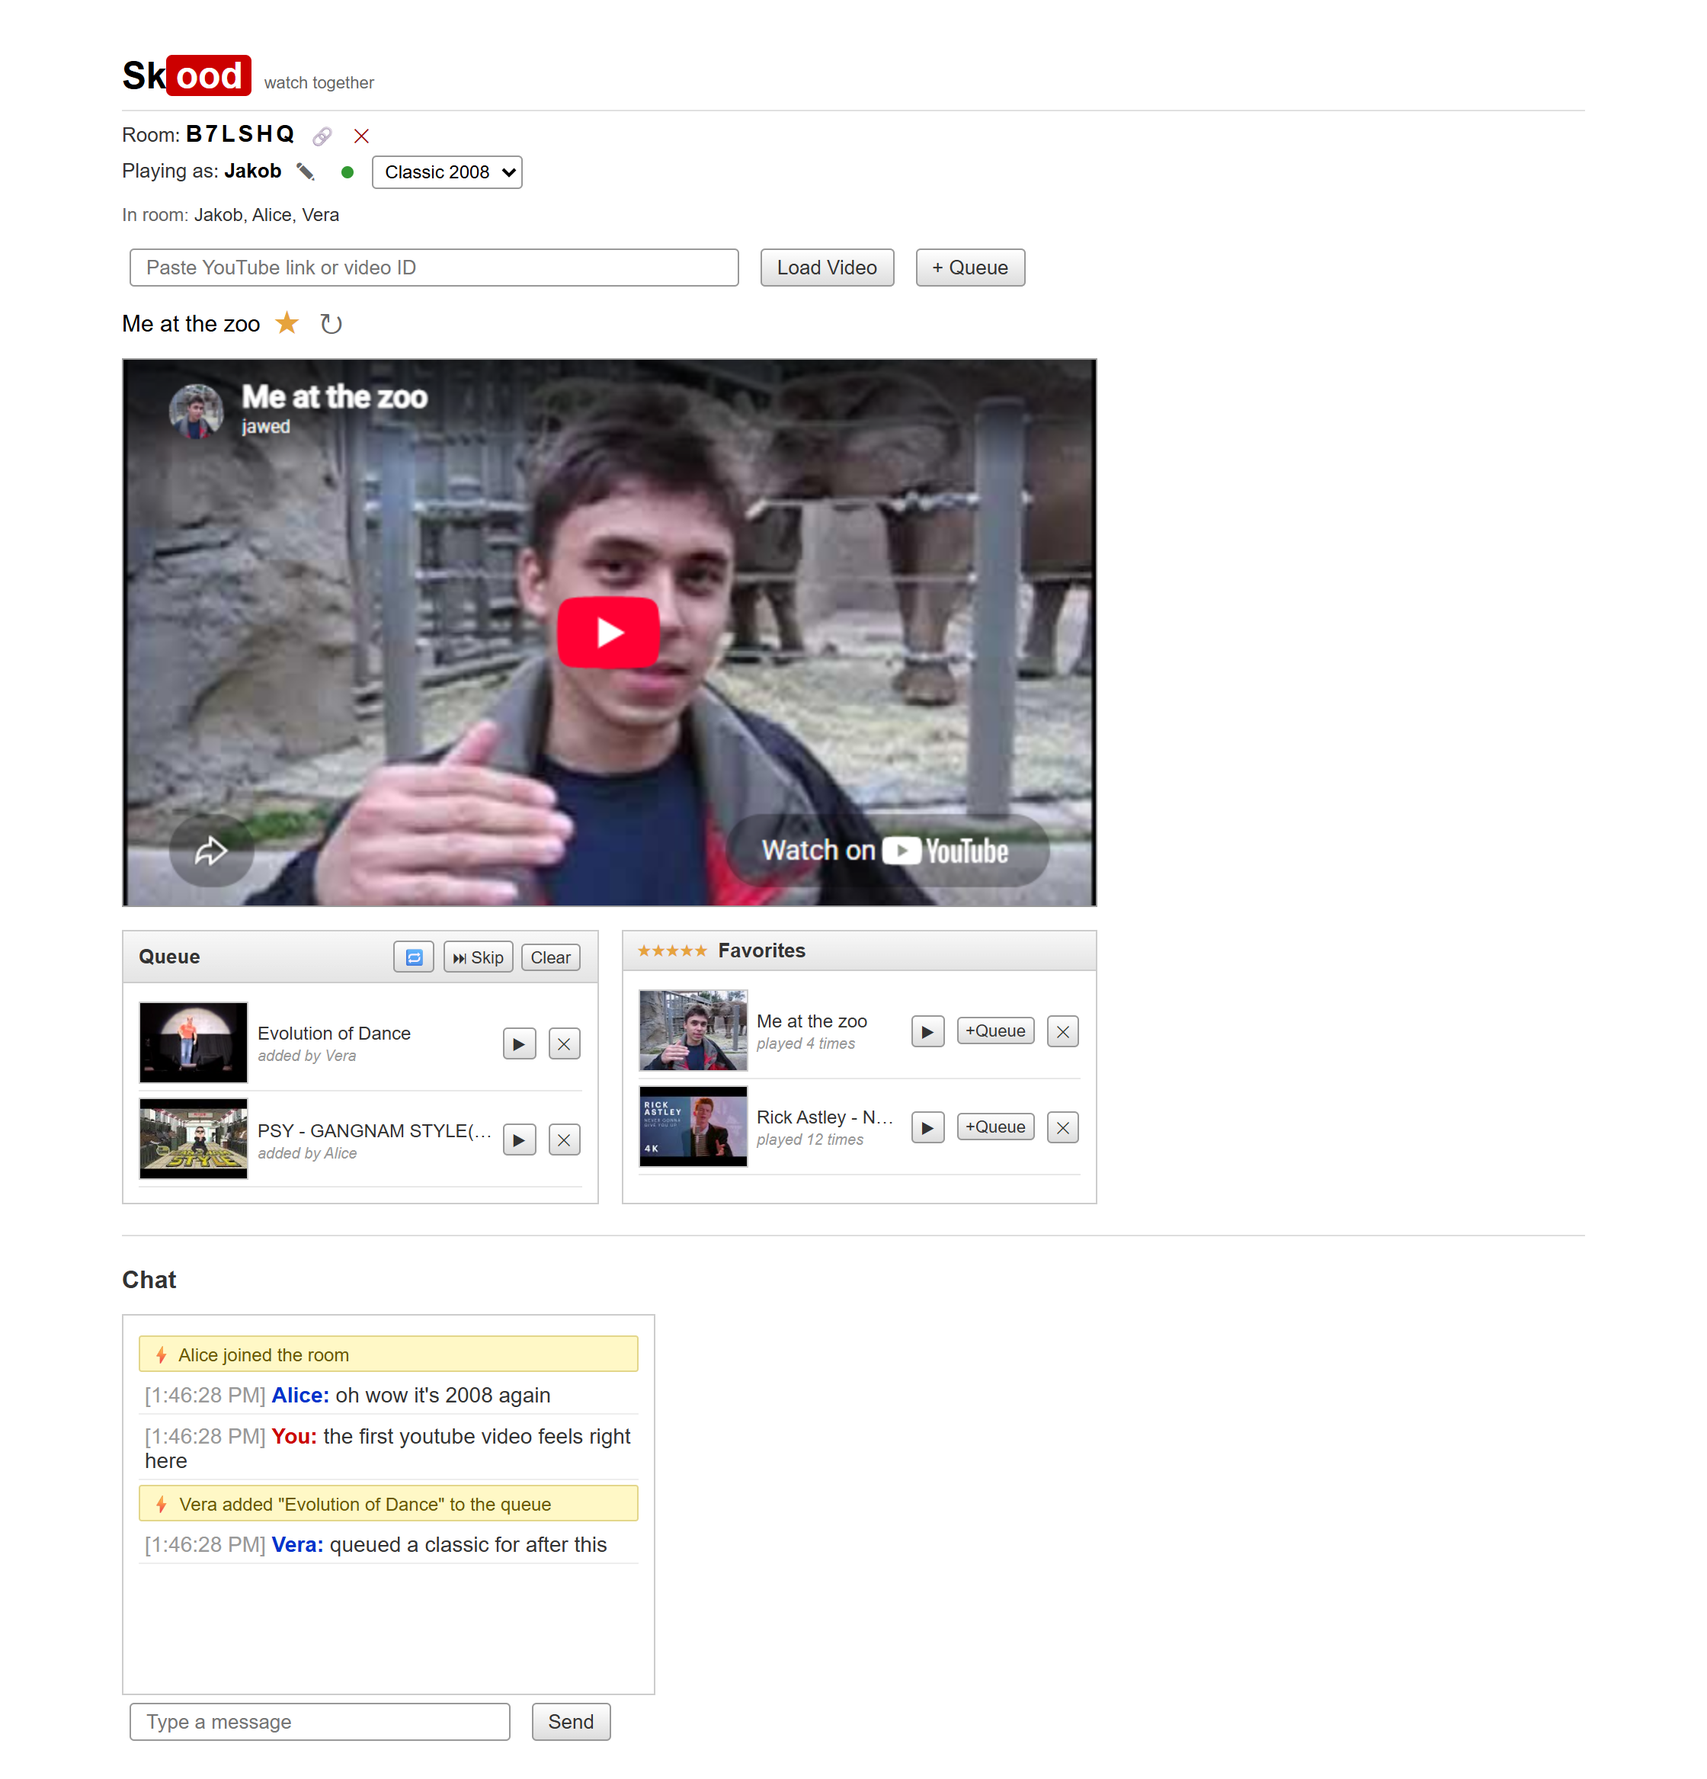
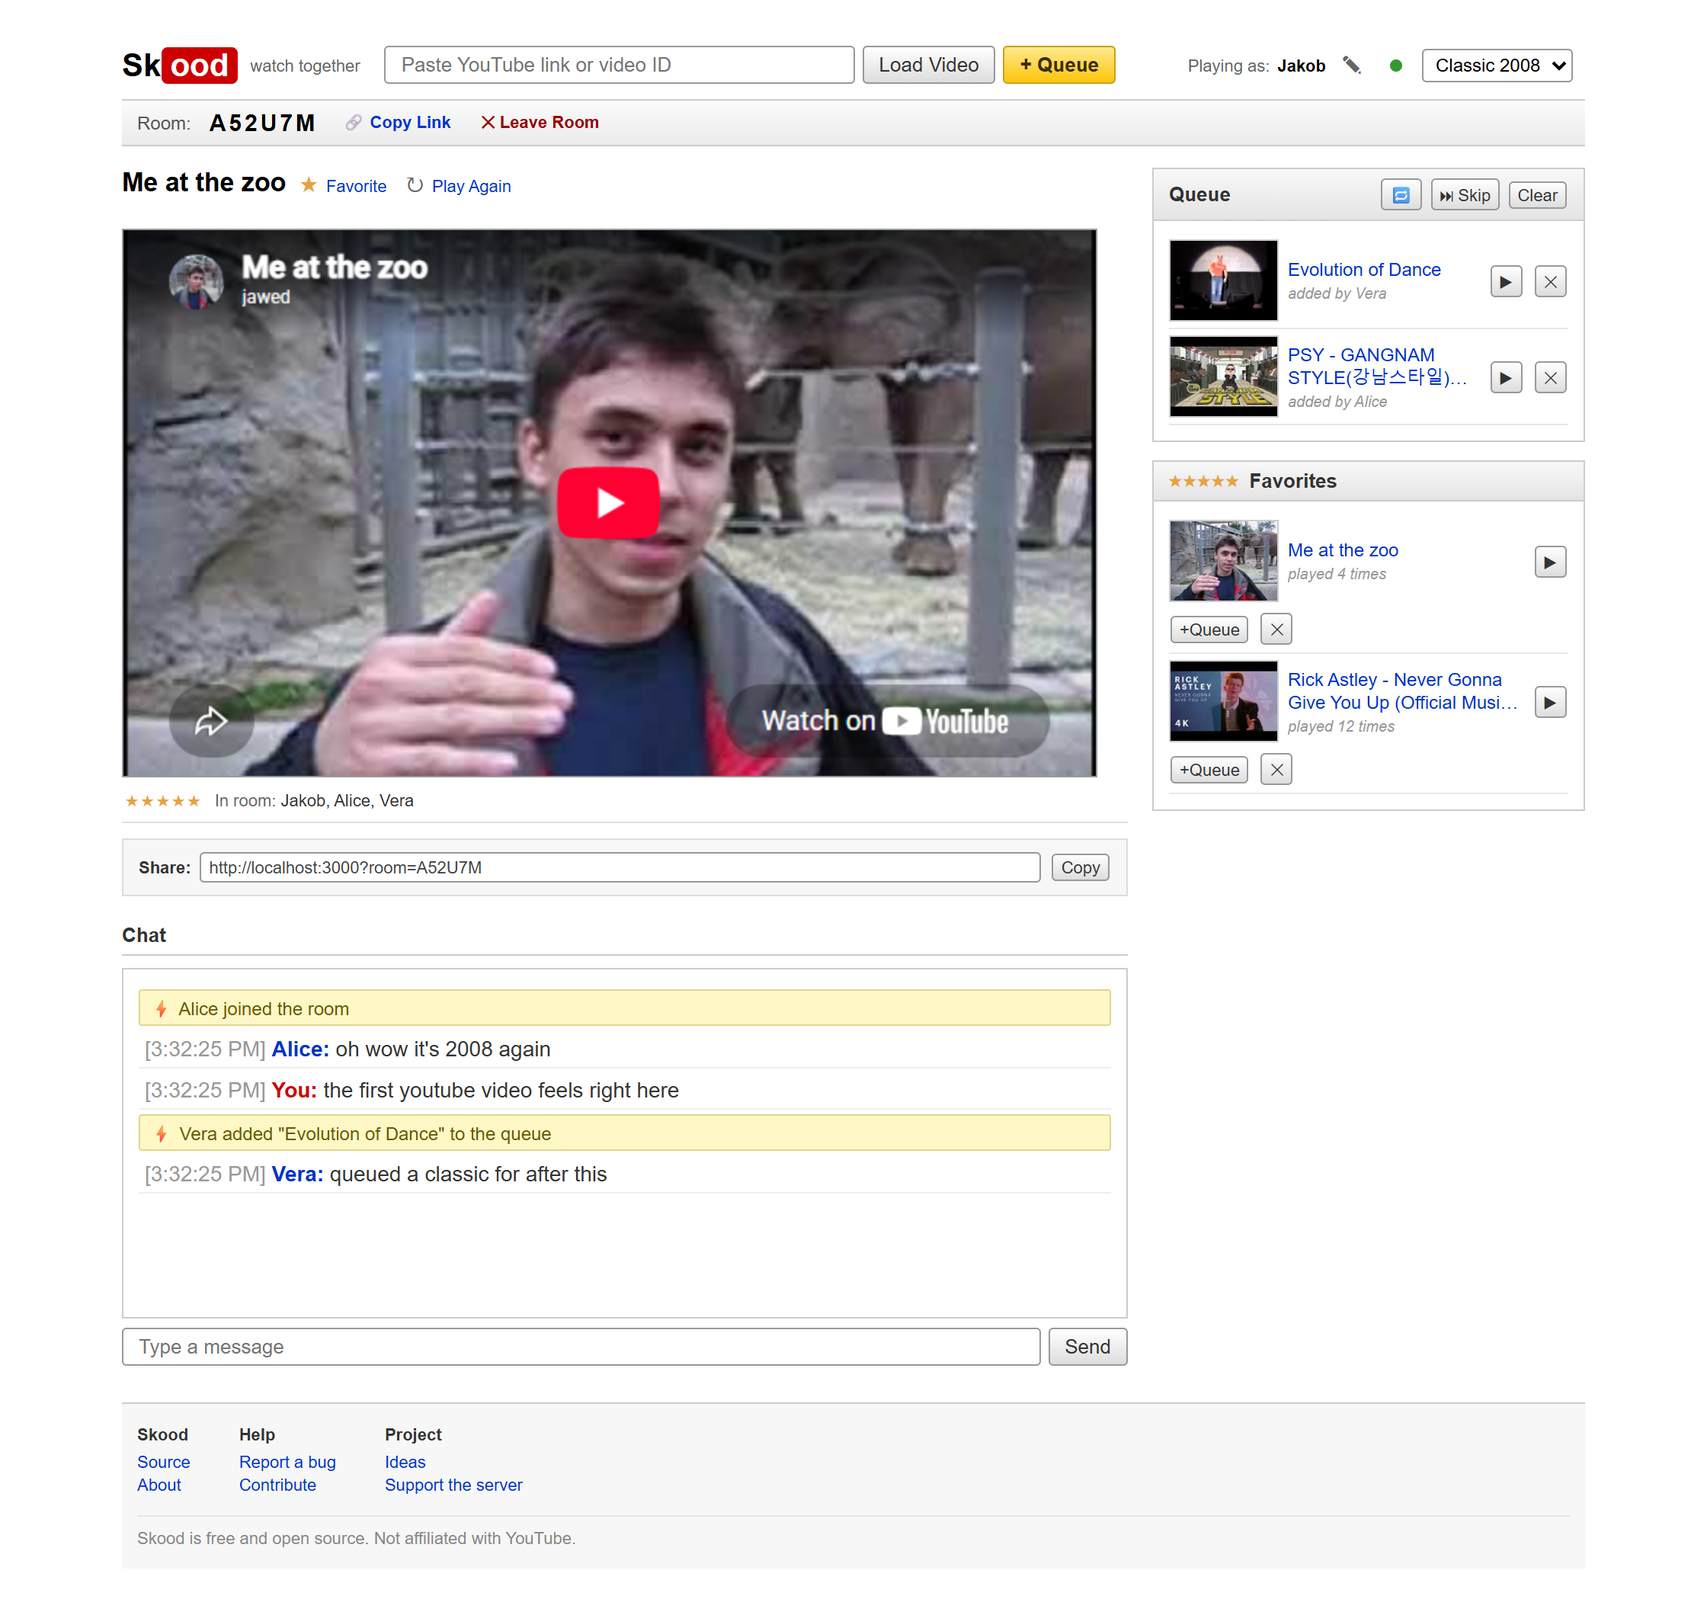
Give the Classic 2008 theme a real period layout
The theme only carried the 2008 palette and typography before, sitting
on the neon theme stacked column. It now rebuilds the page as a 2008
watch page: a masthead with the video field as the search bar and a
yellow queue button, a nav strip carrying the room code and its links,
a two-column body with queue and favorites as related-video modules on
the right, a share row with the room URL, a comments-style chat, and a
footer.

The arranging is done with CSS grid areas under the theme selector, so
index.html keeps one element order and the other two themes are byte
identical to before. Room visibility moves from inline display styles
to class toggles, since an inline display would beat the grid.

diff --git a/public/style.css b/public/style.css
@@ -372,11 +372,20 @@ button:hover {
 }
 
 /* ===================== APP ===================== */
+/* Visibility runs through classes, not inline styles, so a theme is free to
+   give #app a different display type (the Classic 2008 theme uses a grid). */
+#lobby.hidden { display: none; }
+
 #app {
   display: none;
   max-width: 960px;
   margin: 0 auto;
 }
+#app.active { display: block; }
+
+/* Period chrome. Hidden by default and switched on by the Classic 2008
+   layout further down, so the other themes never render it. */
+#shareBox, #siteFooter { display: none; }
 
 /* ---- Room bar ---- */
 #roomBar {
@@ -682,6 +691,217 @@ button:hover {
 }
 
 /* ==========================================================================
+   Classic 2008 watch-page layout: masthead with search, nav strip, two
+   columns, footer.
+
+   This lives under the theme selector rather than in the base rules above,
+   because it is layout rather than paint: the other themes keep the simple
+   stacked column and never have to reset a grid they don't use. Grid areas
+   do the arranging, which is why index.html can keep one element order for
+   every theme and still produce three different pages.
+   ========================================================================== */
+
+html[data-theme="yt2008"] #app.active {
+  display: grid;
+  grid-template-columns: auto minmax(0, 1fr) 300px;
+  grid-template-areas:
+    "logo   search  user"
+    "nav    nav     nav"
+    "title  title   side"
+    "player player  side"
+    "stats  stats   side"
+    "share  share   side"
+    "chathd chathd  side"
+    "chat   chat    side"
+    "chatfm chatfm  side"
+    "footer footer  footer";
+  gap: 0;
+}
+
+html[data-theme="yt2008"] #app > h1 { grid-area: logo; }
+html[data-theme="yt2008"] #videoRow { grid-area: search; }
+html[data-theme="yt2008"] #userBar { grid-area: user; }
+html[data-theme="yt2008"] #roomBar { grid-area: nav; }
+html[data-theme="yt2008"] #nowPlaying { grid-area: title; }
+html[data-theme="yt2008"] #playerWrap { grid-area: player; }
+html[data-theme="yt2008"] #presenceBar { grid-area: stats; }
+html[data-theme="yt2008"] #shareBox { grid-area: share; }
+html[data-theme="yt2008"] #chatHead { grid-area: chathd; }
+html[data-theme="yt2008"] #chatBox { grid-area: chat; }
+html[data-theme="yt2008"] #chatForm { grid-area: chatfm; }
+html[data-theme="yt2008"] #panels { grid-area: side; align-self: start; }
+html[data-theme="yt2008"] #siteFooter { grid-area: footer; }
+html[data-theme="yt2008"] #app .retro-divider { display: none; }
+
+/* ---- Masthead: three cells with no column gap, so they read as one bar ---- */
+html[data-theme="yt2008"] #app > h1,
+html[data-theme="yt2008"] #videoRow,
+html[data-theme="yt2008"] #userBar {
+  display: flex;
+  align-items: center;
+  margin: 0;
+  padding: 10px 8px;
+  background: #FFFFFF;
+  border-bottom: 1px solid #CCCCCC;
+}
+html[data-theme="yt2008"] #app > h1 {
+  padding-left: 0;
+  font-size: 21px;
+}
+html[data-theme="yt2008"] #videoRow { gap: 5px; justify-content: center; }
+html[data-theme="yt2008"] #videoInput { max-width: 420px; margin: 0; }
+html[data-theme="yt2008"] #videoRow button { margin: 0; }
+html[data-theme="yt2008"] .btn-accent {
+  background: linear-gradient(#FFE98C, #FFC50D);
+  border-color: #C8A21B;
+  color: #3A2E00;
+  font-weight: bold;
+}
+html[data-theme="yt2008"] .btn-accent:hover { background: linear-gradient(#FFF0AD, #FFD23F); }
+html[data-theme="yt2008"] #userBar {
+  justify-content: flex-end;
+  gap: 5px;
+  font-size: 11px;
+  color: #666666;
+}
+
+/* ---- Nav strip under the masthead ---- */
+html[data-theme="yt2008"] #roomBar {
+  display: flex;
+  align-items: center;
+  gap: 12px;
+  margin: 0;
+  padding: 6px 10px;
+  background: linear-gradient(#FBFBFB, #EBEBEB);
+  border-bottom: 1px solid #CCCCCC;
+  font-size: 12px;
+  color: #555555;
+}
+html[data-theme="yt2008"] #roomCodeDisplay { color: #000000; }
+html[data-theme="yt2008"] #roomBar .btn-icon {
+  font-size: 11px;
+  font-weight: bold;
+  color: #0033CC;
+}
+html[data-theme="yt2008"] #roomBar .btn-leave { color: #990000; }
+html[data-theme="yt2008"] #copyLinkBtn::after { content: " Copy Link"; }
+html[data-theme="yt2008"] .btn-leave::after { content: " Leave Room"; }
+
+/* ---- Watch-page title, rating row, share box ---- */
+html[data-theme="yt2008"] #nowPlaying {
+  margin: 14px 0 6px;
+  font-size: 17px;
+  font-weight: bold;
+}
+html[data-theme="yt2008"] #starBtn,
+html[data-theme="yt2008"] #replayBtn { font-size: 15px; }
+html[data-theme="yt2008"] #starBtn::after { content: " Favorite"; }
+html[data-theme="yt2008"] #replayBtn::after { content: " Play Again"; }
+html[data-theme="yt2008"] #nowPlaying .btn-icon::after {
+  margin-left: 2px;
+  font-size: 11px;
+  font-weight: normal;
+  color: #0033CC;
+}
+
+html[data-theme="yt2008"] #presenceBar {
+  margin: 0;
+  padding: 7px 2px;
+  border-bottom: 1px solid #E0E0E0;
+  font-size: 11px;
+}
+html[data-theme="yt2008"] #presenceBar::before {
+  content: "★★★★★";
+  margin-right: 8px;
+  color: var(--star);
+  letter-spacing: 1px;
+}
+
+html[data-theme="yt2008"] #shareBox {
+  display: flex;
+  align-items: center;
+  gap: 6px;
+  margin: 10px 0 0;
+  padding: 8px 10px;
+  background: #F7F7F7;
+  border: 1px solid #DDDDDD;
+  font-size: 11px;
+}
+html[data-theme="yt2008"] .share-label { font-weight: bold; color: #333333; }
+html[data-theme="yt2008"] #shareUrl {
+  flex: 1 1 auto;
+  min-width: 0;
+  margin: 0;
+  padding: 3px 5px;
+  font-size: 11px;
+  color: #444444;
+}
+
+/* ---- Comments-style chat in the main column ---- */
+html[data-theme="yt2008"] #chatHead {
+  margin: 18px 0 0;
+  padding-bottom: 5px;
+  border-bottom: 1px solid #CCCCCC;
+  font-size: 13px;
+}
+html[data-theme="yt2008"] #chatBox {
+  width: 100%;
+  height: 230px;
+  margin: 8px 0 0;
+}
+html[data-theme="yt2008"] #chatForm { display: flex; gap: 5px; margin-top: 6px; }
+html[data-theme="yt2008"] #chatInput { flex: 1 1 auto; width: auto; margin: 0; }
+html[data-theme="yt2008"] #chatForm button { margin: 0; }
+
+/* ---- Sidebar: queue and favorites as related-video modules ---- */
+html[data-theme="yt2008"] #panels {
+  flex-direction: column;
+  gap: 12px;
+  width: 100%;
+  max-width: none;
+  margin: 14px 0 0;
+  padding-left: 16px;
+}
+/* Related-video rows: blue title wrapping to two lines, buttons dropping to
+   their own line when the sidebar is too narrow to hold everything. */
+html[data-theme="yt2008"] #panels .item-title {
+  display: -webkit-box;
+  -webkit-line-clamp: 2;
+  -webkit-box-orient: vertical;
+  white-space: normal;
+  line-height: 1.25;
+  color: #0033CC;
+}
+html[data-theme="yt2008"] #panels .queue-item,
+html[data-theme="yt2008"] #panels .fav-item { flex-wrap: wrap; }
+html[data-theme="yt2008"] #panels .item-meta { min-width: 118px; }
+html[data-theme="yt2008"] #panels .btn-small { margin-left: auto; }
+html[data-theme="yt2008"] #panels .btn-small ~ .btn-small { margin-left: 1px; }
+
+/* ---- Footer ---- */
+html[data-theme="yt2008"] #siteFooter {
+  display: flex;
+  flex-wrap: wrap;
+  gap: 10px 32px;
+  margin-top: 24px;
+  padding: 14px 10px;
+  background: #F7F7F7;
+  border-top: 1px solid #CCCCCC;
+  font-size: 11px;
+}
+html[data-theme="yt2008"] .footer-col { display: flex; flex-direction: column; gap: 3px; }
+html[data-theme="yt2008"] .footer-col strong { margin-bottom: 3px; color: #333333; }
+html[data-theme="yt2008"] #siteFooter a { color: #0033CC; text-decoration: none; }
+html[data-theme="yt2008"] #siteFooter a:hover { text-decoration: underline; }
+html[data-theme="yt2008"] .footer-note {
+  flex-basis: 100%;
+  margin-top: 4px;
+  padding-top: 8px;
+  border-top: 1px solid #E6E6E6;
+  color: #888888;
+}
+
+/* ==========================================================================
    Neon-90s structural overrides: mirrors of every base rule the yt2008
    theme reshaped. Look-only properties here; never layout the mobile
    media query below also touches.
@@ -796,4 +1016,29 @@ html[data-theme="midnight"] .sys-message {
   #panels { flex-direction: column; }
   #queuePanel, #favoritesPanel { max-height: 220px; }
   #videoInput { width: 100%; max-width: 100%; }
+
+  /* The 2008 grid collapses to one column. These rules re-assert what the
+     theme block above overrides, since a theme selector outranks the plain
+     ID selectors in this query. */
+  html[data-theme="yt2008"] #app.active {
+    grid-template-columns: minmax(0, 1fr);
+    grid-template-areas:
+      "logo"
+      "search"
+      "user"
+      "nav"
+      "title"
+      "player"
+      "stats"
+      "share"
+      "side"
+      "chathd"
+      "chat"
+      "chatfm"
+      "footer";
+  }
+  html[data-theme="yt2008"] #videoInput { max-width: 100%; }
+  html[data-theme="yt2008"] #videoRow { flex-wrap: wrap; }
+  html[data-theme="yt2008"] #userBar { justify-content: flex-start; }
+  html[data-theme="yt2008"] #panels { padding-left: 0; }
 }

diff --git a/public/index.html b/public/index.html
@@ -82,7 +82,7 @@
   <div id="videoRow">
     <input id="videoInput" placeholder="Paste YouTube link or video ID" onkeydown="if(event.key==='Enter') loadVideo()">
     <button onclick="loadVideo()">Load Video</button>
-    <button onclick="addToQueue()">+ Queue</button>
+    <button class="btn-accent" onclick="addToQueue()">+ Queue</button>
   </div>
 
   <div id="nowPlaying">
@@ -115,10 +115,39 @@
 
   <div class="retro-divider"></div>
 
-  <h2>Chat</h2>
+  <h2 id="chatHead">Chat</h2>
   <div id="chatBox"></div>
-  <input id="chatInput" placeholder="Type a message" onkeydown="if(event.key==='Enter') sendMessage()">
-  <button onclick="sendMessage()">Send</button>
+  <div id="chatForm">
+    <input id="chatInput" placeholder="Type a message" onkeydown="if(event.key==='Enter') sendMessage()">
+    <button onclick="sendMessage()">Send</button>
+  </div>
+
+  <!-- Period chrome below: the Classic 2008 theme lays these out, the other
+       themes hide them. Grid areas place them, so DOM order stays fixed. -->
+  <div id="shareBox">
+    <span class="share-label">Share:</span>
+    <input id="shareUrl" readonly onclick="this.select()">
+    <button class="btn-small" onclick="copyRoomLink()">Copy</button>
+  </div>
+
+  <div id="siteFooter">
+    <div class="footer-col">
+      <strong>Skood</strong>
+      <a href="https://github.com/7akob/skood-2-g">Source</a>
+      <a href="https://github.com/7akob/skood-2-g#readme">About</a>
+    </div>
+    <div class="footer-col">
+      <strong>Help</strong>
+      <a href="https://github.com/7akob/skood-2-g/issues/new?template=bug_report.yml">Report a bug</a>
+      <a href="https://github.com/7akob/skood-2-g/blob/main/CONTRIBUTING.md">Contribute</a>
+    </div>
+    <div class="footer-col">
+      <strong>Project</strong>
+      <a href="https://github.com/7akob/skood-2-g/issues">Ideas</a>
+      <a href="https://buymeacoffee.com/7akob">Support the server</a>
+    </div>
+    <div class="footer-note">Skood is free and open source. Not affiliated with YouTube.</div>
+  </div>
 
 </div>
 

diff --git a/public/script.js b/public/script.js
@@ -167,8 +167,12 @@ function enterRoom(roomId) {
   history.replaceState({}, "", "?room=" + roomId);
   document.getElementById("roomCodeDisplay").textContent = roomId;
   document.getElementById("usernameDisplay").textContent = username;
-  document.getElementById("lobby").style.display = "none";
-  document.getElementById("app").style.display = "block";
+  // Class toggles rather than inline display, so each theme decides how #app
+  // lays out (the Classic 2008 theme makes it a grid; inline styles would win).
+  document.getElementById("lobby").classList.add("hidden");
+  document.getElementById("app").classList.add("active");
+  const shareUrl = document.getElementById("shareUrl");
+  if (shareUrl) shareUrl.value = location.origin + "?room=" + roomId;
   renderFavorites();
   if (socket.connected) {
     socket.emit("join_room", { roomId: currentRoomId, username });
@@ -182,9 +186,11 @@ function leaveRoom() {
   pendingSync = null;
   currentVideoId = null;
   currentVideoTitle = null;
-  document.getElementById("app").style.display = "none";
-  document.getElementById("lobby").style.display = "block";
+  document.getElementById("app").classList.remove("active");
+  document.getElementById("lobby").classList.remove("hidden");
   document.getElementById("roomJoinInput").value = "";
+  const shareUrl = document.getElementById("shareUrl");
+  if (shareUrl) shareUrl.value = "";
   renderPresence([]);
   updateLobbyStats();
 }

diff --git a/CONTRIBUTING.md b/CONTRIBUTING.md
@@ -39,15 +39,29 @@ username):
 - Themes: all colors live as CSS custom properties at the top of
   `public/style.css`. `:root` holds the default `yt2008` values; every other
   theme is one `html[data-theme="NAME"]` token block up top plus, if it
-  reshapes anything, a structural override section above the mobile media
-  query. See `neon90s` and `midnight` for the two patterns. Two rules: theme
-  blocks change look only, never layout properties the mobile media query
-  touches, and if you change a base structural rule, mirror it in every
-  theme's structural section. Adding a theme means: token block, structural
-  mirrors, an `<option>` in both `.theme-select`s in `index.html`, entries in
-  `THEMES` and `THEME_COLORS` in `script.js`, the head snippet's `VALID` list
-  in `index.html`, a service-worker cache-name bump in `sw.js`, and a
-  screenshot for the README table. (`manifest.json` intentionally stays on
-  the default theme's colors, since it's a static file.)
+  reshapes anything, a structural section further down. See `neon90s` and
+  `midnight` for the light-touch pattern, and the Classic 2008 section for a
+  theme that goes further.
+- A theme may change layout, not just paint. Classic 2008 turns `#app` into a
+  grid and uses named areas to build a masthead, a nav strip, a sidebar and a
+  footer out of the same elements every other theme stacks in a single
+  column. Three rules make that safe:
+  1. Keep layout under your own `html[data-theme="NAME"]` selector rather
+     than in the base rules, so other themes never inherit a layout they
+     would have to undo.
+  2. Grid areas, not DOM order. `index.html` has one element order for all
+     themes, so if you need an element somewhere else, place it with a grid
+     area instead of moving it.
+  3. A theme selector outranks the plain ID selectors in the mobile media
+     query, so anything you override there has to be re-asserted inside that
+     query for small screens. The Classic 2008 rules at the bottom of the
+     file show what that looks like.
+- If you change a base structural rule, mirror it in every theme's
+  structural section. Adding a theme means: token block, structural mirrors,
+  an `<option>` in both `.theme-select`s in `index.html`, entries in `THEMES`
+  and `THEME_COLORS` in `script.js`, the head snippet's `VALID` list in
+  `index.html`, a service-worker cache-name bump in `sw.js`, and a screenshot
+  for the README table. (`manifest.json` intentionally stays on the default
+  theme's colors, since it's a static file.)
 - Small, focused pull requests are easiest to review. For a bigger idea, open
   an issue first so we can talk about it.

diff --git a/README.md b/README.md
@@ -48,7 +48,7 @@ What "the opposite" means in practice:
 | :---: | :---: | :---: |
 | ![The Classic 2008 theme](docs/screenshots/room-yt2008.png) | ![The Neon 90s theme](docs/screenshots/room-neon90s.png) | ![The Midnight theme](docs/screenshots/room-midnight.png) |
 
-Switch anytime with the selector in the lobby or the room. Themes are CSS custom properties on top of the same markup. Adding your own is a small diff (see [CONTRIBUTING.md](CONTRIBUTING.md)), and [the theme gallery issue](https://github.com/7akob/skood-2-g/issues/2) has a ready-designed light theme waiting for a first contributor.
+Switch anytime with the selector in the lobby or the room. All three are the same HTML: Classic 2008 rebuilds it into a period watch page, with a masthead search bar, a nav strip, related-video style sidebar modules and a footer, using CSS grid areas rather than different markup. Adding your own theme is a small diff (see [CONTRIBUTING.md](CONTRIBUTING.md)), and [the theme gallery issue](https://github.com/7akob/skood-2-g/issues/2) has a ready-designed light theme waiting for a first contributor.
 
 ## Quick start
 
